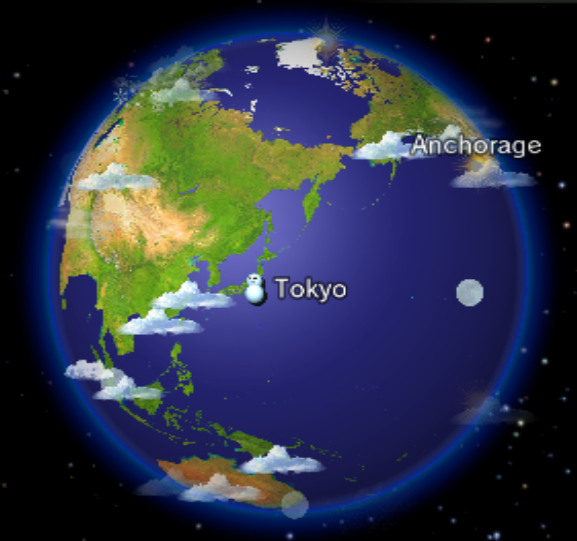
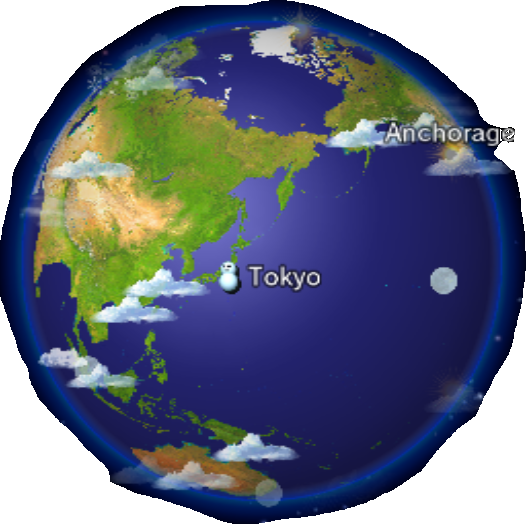
updated globe for the fifth time xd

diff --git a/js/globe.js b/js/globe.js
@@ -21,31 +21,50 @@ document.getElementById("globe").src="/images/globe/globee.PNG";
 document.getElementById("globe").style.width="577px";
 document.getElementById("globe").style.height="45%";
 document.getElementById("globe").style.transform="scale(1)";
-document.getElementById("globe").onClick="javascript:showtokyo();";
+document.getElementById("tokyoselector").style.display="none";
 }
 
 function zoomIn() {
     var zooms12 = new Audio("/sound/globe/zoom.wav")
     zooms12.play();
-    document.getElementById("globe").src="/images/globe/zoomedinglobee.PNG";
     document.getElementById("globe").style.width="579px";
     document.getElementById("globe").style.height="40%";
     document.getElementById("globe").style.transform="scale(1.7)";
-    
+    document.getElementById("tokyoselector").style.display="block";
 }
 
-function warp() {
-    var warpfir = new Audio("/sound/globe/changeperspective2.wav")
-warpfir.play();
-document.getElementById("globe").style.transform="skew(20deg)";
+let currentRotation = 0;
+
+function warp(rotation) {
+    var warpfir = new Audio("/sound/globe/changeperspective2.wav");
+    warpfir.play();
+    document.getElementById("globe").style.transform = `rotate3d(1, 2, 3, ${rotation}deg)`;
 }
 
-function warpback() {
-    var warpfir = new Audio("/sound/globe/changeperspective.wav")
-warpfir.play();
-document.getElementById("globe").style.transform="skew(-20deg)";
+function warpback(rotation) {
+    var warpfir = new Audio("/sound/globe/changeperspective.wav");
+    warpfir.play();
+    document.getElementById("globe").style.transform = `rotate3d(1, 2, 3, ${rotation}deg)`;
 }
 
+function warpforbtn() {
+    currentRotation += 150; 
+    warp(currentRotation);
+
+    var warrrp = document.getElementById("warp1btn");
+    warrrp.classList.add("active");
+    setTimeout(() => warrrp.classList.remove("active"), 100);
+}
+
+function warpbtnback() {
+
+        currentRotation -= 150; 
+        warp(currentRotation);
+
+        var warrrpreverse = document.getElementById("warpbackbtn");
+        warrrpreverse.classList.add("active");
+        setTimeout(() => warrrpreverse.classList.remove("active"), 100);
+}
 
 function showcontrols() {
     var warpfir = new Audio("/sound/globe/WTR_SE_TENKI2.wav")
@@ -94,26 +113,26 @@ document.addEventListener('keydown', (event) => {
 // warp 1
 document.addEventListener('keydown', (event) => {
     if (event.key === 'ArrowLeft') {
-warp();
+        currentRotation += 150; 
+        warp(currentRotation);
 
-    var warrrp = document.getElementById("warp1btn");
-    warrrp.classList.add("active");
-    setTimeout(revertwarp1,100);
-    
+        var warrrp = document.getElementById("warp1btn");
+        warrrp.classList.add("active");
+        setTimeout(() => warrrp.classList.remove("active"), 100);
     }
-    });
+});
 
 
     // warp 2
-document.addEventListener('keydown', (event) => {
-    if (event.key === 'ArrowRight') {
-warpback();
-
-    var warrrpreverse = document.getElementById("warpbackbtn");
-    warrrpreverse.classList.add("active");
-    setTimeout(revertwarp2,100);
+    document.addEventListener('keydown', (event) => {
+        if (event.key === 'ArrowRight') {
+            currentRotation -= 150; 
+            warp(currentRotation);
     
-    }
+            var warrrpreverse = document.getElementById("warpbackbtn");
+            warrrpreverse.classList.add("active");
+            setTimeout(() => warrrpreverse.classList.remove("active"), 100);
+        }
     });
 
 // Controls
@@ -151,6 +170,7 @@ document.addEventListener('keydown', (event) => {
 function restore() {
     var restores = new Audio("/sound/globe/restore.wav")
 restores.play();
+currentRotation = 0;
 document.getElementById("globe").src="/images/globe/globee.PNG";
 document.getElementById("globe").style.transform="revert";
 document.getElementById("globe").style.filter="revert";

diff --git a/forecast.html b/forecast.html
@@ -22,7 +22,7 @@
 
 
     <div id="details" style="max-width:100%; height:100%; width:100%; position:absolute; top:0; left:0;">
-        <p style="color:white; "></p>
+
         <div id="controlsmenu" style="visibility:hidden; opacity:0%;" onclick="hidecontrols();">
             <img src="/images/globe/controlsbanner.png" style=" width:630px; height:230px;">
             <h3 style="position:fixed; margin-top:-180px; font-size:23px;">Controls:</h3>
@@ -33,9 +33,14 @@
         </div>
 
 <div id="mainglobe" style="z-index:6px; position:absolute; top:0; left:0; width:100%; height:100%;">
-                <img src="/images/globe/globee.PNG" onclick="" onmouseup="globesound();" id="globe" alt="">
+              
+              <div onmouseup="globesound();" id="globe">
+
+              </div>
+
+              <a href="javascript:showcontrols();">
                 <img src="/images/globe/weathernewswatermark.png" id="NASAANDWNWATERMARK" alt="">
-        
+            </a>
         
                 
                     <button align="center" id="zoomoutbtn" class="topbtns" onclick="zoomOut();" onmouseover="hovr();">Zoom (&darr;)</button>
@@ -44,10 +49,10 @@
                 
                
 
-                    <div id="bottombtns" style=" width:100%; height:fit-content; position:absolute; bottom:30px;    ">
+                    <div id="bottombtns" style=" width:100%; height:fit-content; position:absolute; bottom:30px;              z-index:30px;   ">
                     <button align="center" id="endglobeviewbtn" onclick="backtohome(); " onmouseover="hovr();">End</button>
-                    <button align="center" id="warp1btn"        onclick="warp();" onmouseover="hovr();"><img src="/images/globe/warp01.png" style="max-width:45px;" alt=""></button>
-                    <button align="center" id="warpbackbtn"     onclick="warpback();" onmouseover="hovr();"><img src="/images/globe/warp02.png" style="max-width:38px;" alt=""></button>
+                    <button align="center" id="warp1btn"        onclick="warpforbtn()" onmouseover="hovr();"><img src="/images/globe/warp01.png" style="max-width:45px;" alt=""></button>
+                    <button align="center" id="warpbackbtn"     onclick="warpbtnback()" onmouseover="hovr();"><img src="/images/globe/warp02.png" style="max-width:38px;" alt=""></button>
                     <button align="center" id="restorebtn"      onclick="restore();" onmouseover="hovr();">Restore</button>
                     </div>
                 
